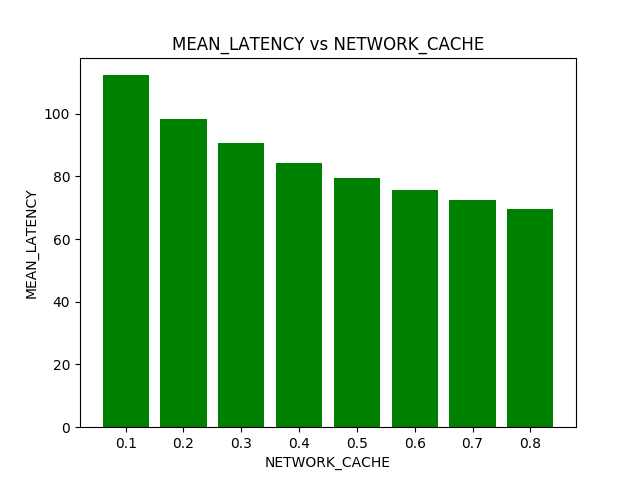
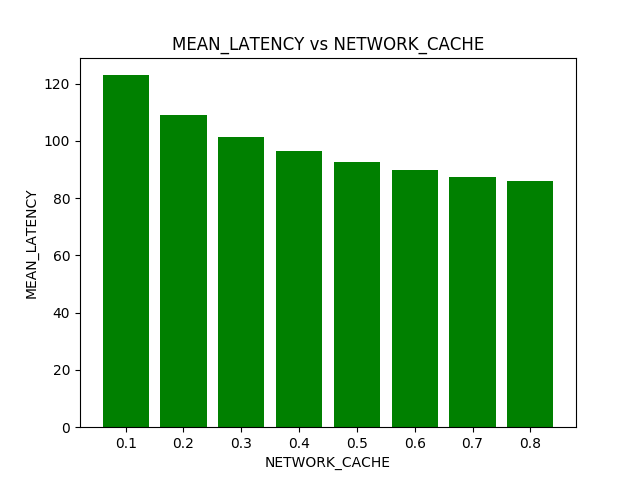
Rough version with new packet type ReadComplete, also add cache input queue delay.

diff --git a/icarus/execution/collectors.py b/icarus/execution/collectors.py
@@ -45,6 +45,9 @@ class DataCollector(object):
         """
         self.view = view
 
+    def add_node_process_queue_delay(self, node, flow):
+        pass
+
     def start_session(self, timestamp, receiver, content):
         """Notifies the collector that a new network session started.
 
@@ -260,7 +263,7 @@ class CollectorProxy(DataCollector):
     dispatching events of interests to concrete collectors.
     """
 
-    EVENTS = ('start_session', 'start_flow_session', 'end_session', 'end_flow_session', 'cache_hit', 'cache_hit_flow', 'cache_miss', 'cache_miss_flow', 'server_hit', 'server_hit_flow', 'request_hop', 'request_hop_flow', 'content_hop', 'content_hop_flow','results')
+    EVENTS = ('add_node_process_queue_delay', 'start_session', 'start_flow_session', 'end_session', 'end_flow_session', 'cache_hit', 'cache_hit_flow', 'cache_miss', 'cache_miss_flow', 'server_hit', 'server_hit_flow', 'request_hop', 'request_hop_flow', 'content_hop', 'content_hop_flow','results')
 
     def __init__(self, view, collectors):
         """Constructor
@@ -275,6 +278,11 @@ class CollectorProxy(DataCollector):
         self.view = view
         self.collectors = {e: [c for c in collectors if e in type(c).__dict__]
                            for e in self.EVENTS}
+
+    @inheritdoc(DataCollector)
+    def add_node_process_queue_delay(self, node, flow):
+        for c in self.collectors['add_node_process_queue_delay']:
+            c.add_node_process_queue_delay(node, flow)
 
     @inheritdoc(DataCollector)
     def start_session(self, timestamp, receiver, content):
@@ -323,7 +331,7 @@ class CollectorProxy(DataCollector):
     
     @inheritdoc(DataCollector)
     def request_hop_flow(self, u, v, flow, main_path=True):
-        for c in self.collectors['request_hop']:
+        for c in self.collectors['request_hop_flow']:
             c.request_hop_flow(u, v, flow,  main_path)
 
     @inheritdoc(DataCollector)
@@ -333,7 +341,7 @@ class CollectorProxy(DataCollector):
     
     @inheritdoc(DataCollector)
     def content_hop_flow(self, u, v, flow, main_path=True):
-        for c in self.collectors['content_hop']:
+        for c in self.collectors['content_hop_flow']:
             c.content_hop_flow(u, v, flow, main_path)
 
     @inheritdoc(DataCollector)
@@ -343,7 +351,7 @@ class CollectorProxy(DataCollector):
     
     @inheritdoc(DataCollector)
     def end_flow_session(self, flow, success=True):
-        for c in self.collectors['end_session']:
+        for c in self.collectors['end_flow_session']:
             c.end_flow_session(flow, success)
 
     @inheritdoc(DataCollector)
@@ -440,6 +448,9 @@ class LatencyCollector(DataCollector):
 
         self.sess_latency_flow = {}
         
+    @inheritdoc(DataCollector)
+    def add_node_process_queue_delay(self, node, flow):
+        self.sess_latency_flow[flow] += (self.view.get_node_process_queue_index(node, flow) + 1) * 5.11 # test, manually set, need to be fixed later
 
     @inheritdoc(DataCollector)
     def start_session(self, timestamp, receiver, content):
@@ -557,7 +568,7 @@ class CacheHitRatioCollector(DataCollector):
     @inheritdoc(DataCollector)
     def cache_hit(self, node):
         self.cache_hits += 1
-        if self.off_path_hits and node not in self.curr_path_flow[flow]:
+        if self.off_path_hits and node not in self.curr_path:
             self.off_path_hit_count += 1
         if self.cont_hits:
             self.cont_cache_hits[self.curr_cont] += 1
@@ -567,7 +578,7 @@ class CacheHitRatioCollector(DataCollector):
     @inheritdoc(DataCollector)
     def cache_hit_flow(self, node, content, flow):
         self.cache_hits += 1
-        if self.off_path_hits and node not in self.curr_path:
+        if self.off_path_hits and node not in self.curr_path_flow[flow]:
             self.off_path_hit_count += 1
         if self.cont_hits:
             self.cont_cache_hits[self.curr_cont_flow[flow]] += 1

diff --git a/icarus/models/strategy/onpath.py b/icarus/models/strategy/onpath.py
@@ -135,14 +135,15 @@ class LeaveCopyEverywherePacketLevel(Strategy):
             if node == receiver:
                 self.controller.start_flow_session(time, receiver, content, flow, log)
             source = self.view.content_source(content)
-            if self.view.has_cache(node) or node == source:
+            if self.view.has_cache(node) or node == source:     
                 if self.controller.get_content_flow(node, content, flow, log):
-                    path = self.view.shortest_path(node, receiver)
-                    delay = self.view.link_delay(node, path[1])
-                    t_event = time + delay
-                    self.controller.forward_request_hop_flow(node, path[1], flow, log)
-                    self.controller.add_event({'t_event': t_event, 'receiver': receiver, 'content': content, 'node': path[1], 'flow': flow, 'pkt_type': 'Data', 'log': log} )
+                    self.controller.push_node_process_queue(node, flow)
+                    idx = self.view.get_node_process_queue_index(node, flow)
+                    t_event = time + (idx + 1) * 1.11
+                    self.controller.add_event({'t_event': t_event, 'receiver': receiver, 'content': content, 'node': node, 'flow': flow, 'pkt_type': 'ReadComplete', 'log': log})
                     return
+
+            # no cache get, forward request to the next node
             path = self.view.shortest_path(node, source)
             delay = self.view.link_delay(node, path[1])
             t_event = time + delay
@@ -160,6 +161,16 @@ class LeaveCopyEverywherePacketLevel(Strategy):
                 delay = self.view.link_delay(node, path[1])
                 t_event = time + delay
                 self.controller.add_event({'t_event': t_event, 'receiver': receiver, 'content': content, 'node': path[1], 'flow': flow, 'pkt_type': 'Data', 'log': log})
+        
+        elif pkt_type == 'ReadComplete':
+            self.controller.pop_node_process_queue(node, flow)
+            path = self.view.shortest_path(node, receiver)
+            link_delay = self.view.link_delay(node, path[1])
+            t_event = time + link_delay
+            self.controller.forward_request_hop_flow(node, path[1], flow, log)
+            self.controller.add_event({'t_event': t_event, 'receiver': receiver, 'content': content, 'node': path[1], 'flow': flow, 'pkt_type': 'Data', 'log': log} )
+            return
+
         else:
             raise ValueError('Invalid packet type')
 

diff --git a/icarus/execution/network.py b/icarus/execution/network.py
@@ -331,6 +331,9 @@ class NetworkView(object):
         if node in self.model.cache:
             return self.model.cache[node].dump()
 
+    def get_node_process_queue_index(self, node, flow):
+        return self.model.nodes_process_queues[node].index(flow)
+
 
 class NetworkModel(object):
     """Models the internal state of the network.
@@ -428,6 +431,9 @@ class NetworkModel(object):
         self.eventQ = []
         self.eventTimes = set()
 
+        # A dict of FIFO  queues of nodes processing (get content operations)
+        self.nodes_process_queues = {}
+
 class NetworkController(object):
     """Network controller
 
@@ -463,6 +469,11 @@ class NetworkController(object):
         heappush(self.model.eventQ, (event['t_event'], event))
         # Sort events in the eventQ by "time of event" (t_event)
         # sorted(self.model.eventQ, key = lambda i: i['t_event'])
+
+        # add node process delay penalty
+        if event['pkt_type'] == 'ReadComplete':
+            if self.collector is not None and event['log']:
+                self.collector.add_node_process_queue_delay(event['node'], event['flow'])
 
     def pop_next_event(self):
         """
@@ -734,6 +745,8 @@ class NetworkController(object):
         """
         if node in self.model.cache:
             cache_hit = self.model.cache[node].get(content)
+
+
             if cache_hit:
                 if log:
                     self.collector.cache_hit_flow(node, content, flow)
@@ -748,6 +761,16 @@ class NetworkController(object):
             return True
         else:
             return False
+
+    def push_node_process_queue(self, node, flow):
+        if node in self.model.nodes_process_queues:
+            self.model.nodes_process_queues[node].append(flow)
+        else:
+            self.model.nodes_process_queues[node] = []
+            self.model.nodes_process_queues[node].append(flow)
+        
+    def pop_node_process_queue(self, node, flow):
+        self.model.nodes_process_queues[node].remove(flow)
 
     def remove_content(self, node):
         """Remove the content being handled from the cache

diff --git a/icarus/scenarios/event.py b/icarus/scenarios/event.py
@@ -1,0 +1,64 @@
+"""Different typed of events
+
+This module provides different events for workload, i.e., packet-level events
+and data-link-level events
+"""
+from __future__ import division
+import random
+import networkx as nx
+from enum import Enum, unique
+
+from icarus.util import iround, inheritdoc
+from icarus.registry import register_cache_placement
+from icarus.scenarios.algorithms import compute_clusters, compute_p_median, deploy_clusters
+
+__all__ = [
+    'PacketType',
+    'EventPacketLevel'
+          ]
+
+@unique
+class PacketType(Enum):
+    REQUEST = 0
+    DATA = 1
+    READ_COMPLETE = 2
+
+
+class Event(object):
+    """Base event imported by all other event classes"""
+
+    def __init__(self, time, receiver, content, log, **kwargs):
+        """Constructor
+
+        Parameters
+        ----------
+        time : Timestamp
+            The timestamp of an event
+        receiver : 
+
+
+        kwargs : keyworded arguments, optional
+            Additional event parameters
+        """
+        self.time = time
+        self.receiver = receiver
+        self.content = content
+        self.log = log
+
+
+class EventPacketLevel(Event):
+
+    @inheritdoc(Event)
+    def __init__(self, time, receiver, content, log, node, flow, pkt_type):
+        self.time = time
+        self.receiver = receiver
+        self.content = content
+        self.log = log
+        self.node = node
+        self.flow = flow
+        self.pkt_type = pkt_type
+
+
+
+
+

diff --git a/examples/my-single-experiment-line-topology/config.py b/examples/my-single-experiment-line-topology/config.py
@@ -36,7 +36,7 @@ DATA_COLLECTORS = ['CACHE_HIT_RATIO', 'LATENCY']
 
 # Total size of network cache as a fraction of content population
 NETWORK_CACHE = [0.1, 0.2, 0.3, 0.4, 0.5, 0.6, 0.7, 0.8]
-
+# NETWORK_CACHE = [0.1]
 # Queue of experiments
 EXPERIMENT_QUEUE = deque()
 
